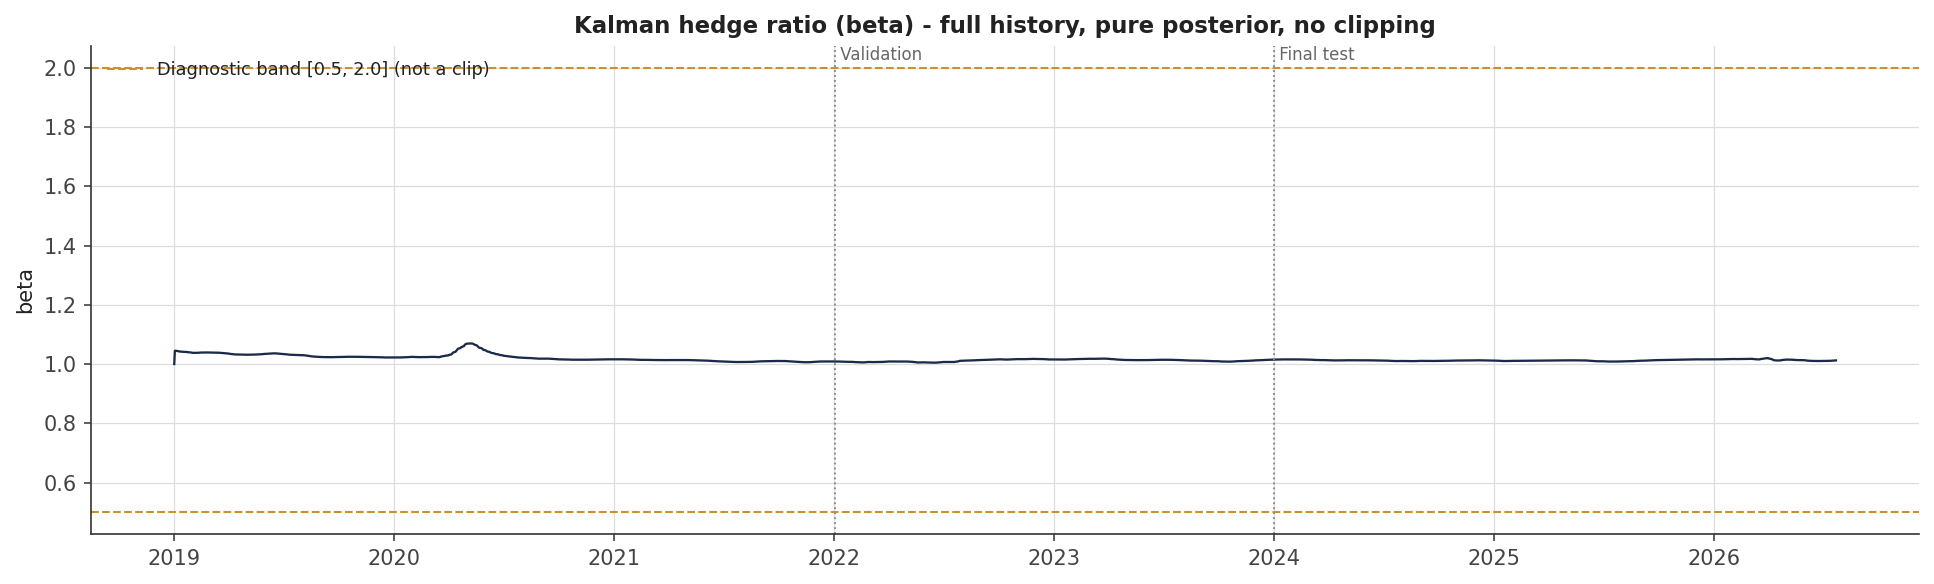
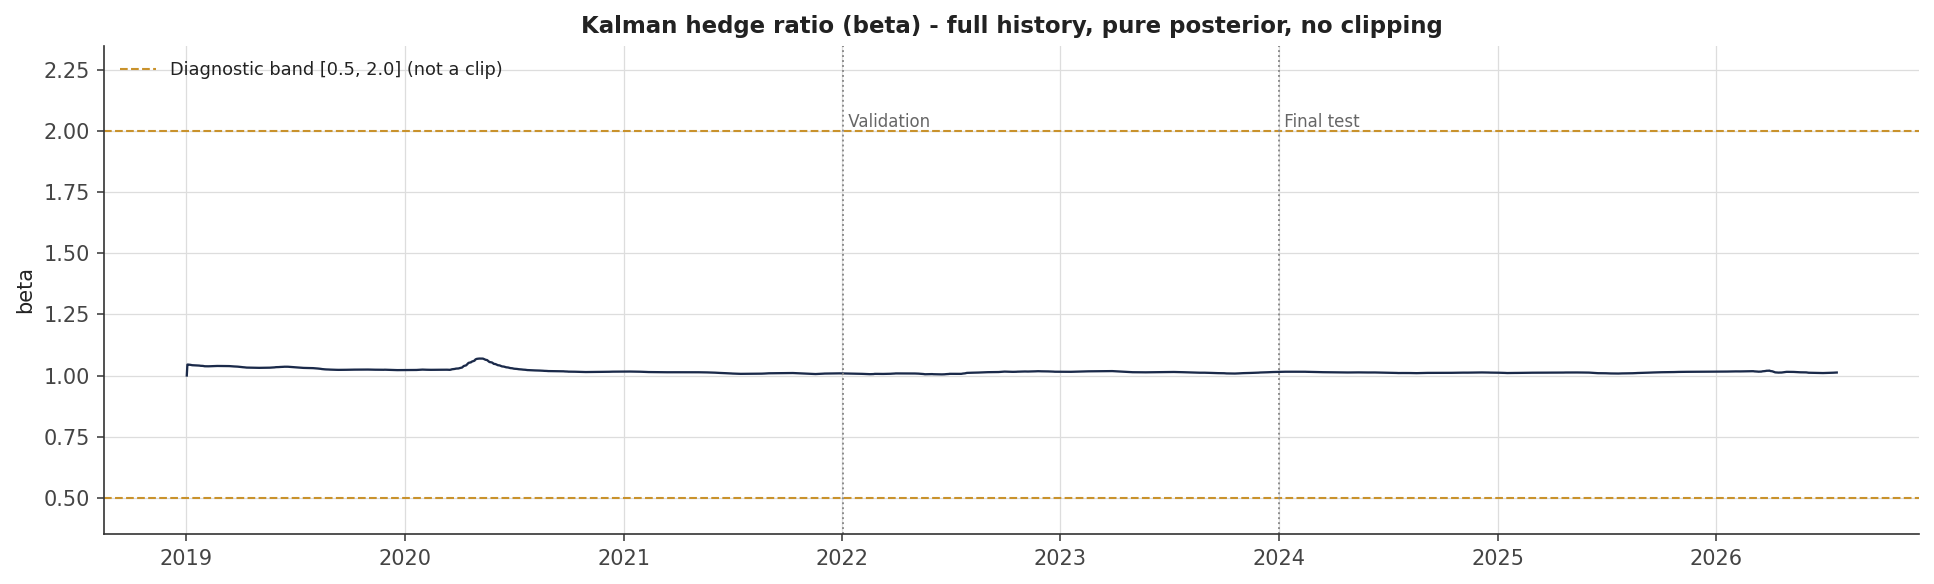
PNG fix

diff --git a/generate_report_charts.py b/generate_report_charts.py
@@ -23,6 +23,7 @@ Charts produced:
 """
 from pathlib import Path
 
+import matplotlib.dates as mdates
 import matplotlib.pyplot as plt
 import pandas as pd
 
@@ -109,25 +110,30 @@ def plot_equity_and_drawdown(df: pd.DataFrame, results_summary: pd.DataFrame | N
         ax_eq.axhline(1.0, color="#aaaaaa", lw=0.8, ls="--")
         ax_eq.set_title(f"{label}\n{start:%Y-%m-%d} \u2192 {end:%Y-%m-%d}")
         ax_eq.set_ylim(eq_lo - eq_pad, eq_hi + eq_pad)
+        ax_eq.tick_params(axis="x", labelbottom=False)
         if col == 0:
             ax_eq.set_ylabel("Equity (start = 1.0)")
 
         if results_summary is not None and period in results_summary.index:
             row = results_summary.loc[period]
             ax_eq.text(
-                0.03, 0.06,
+                0.97, 0.06,
                 f"Sharpe {row['sharpe']:.2f}  |  Return {row['return'] * 100:.1f}%",
                 transform=ax_eq.transAxes, fontsize=8.5, color="#333333",
-                va="bottom", ha="left",
+                va="bottom", ha="right",
             )
 
         ax_dd = axes[1, col]
+        ax_dd.sharex(ax_eq)
         ax_dd.fill_between(sub["Date"], dd * 100, 0, color=MAROON, alpha=0.35, lw=0)
         ax_dd.plot(sub["Date"], dd * 100, color=MAROON, lw=1.0)
         ax_dd.set_ylim((dd_lo - dd_pad) * 100, 1.0)
         if col == 0:
             ax_dd.set_ylabel("Drawdown (%)")
-        ax_dd.tick_params(axis="x", labelrotation=30)
+        locator = mdates.MonthLocator(interval=6)
+        ax_dd.xaxis.set_major_locator(locator)
+        ax_dd.xaxis.set_major_formatter(mdates.ConciseDateFormatter(locator))
+        ax_dd.tick_params(axis="x", labelrotation=0)
 
     fig.suptitle(
         "Out-of-sample performance by period (each period is an independent test - "
@@ -155,6 +161,7 @@ def plot_beta_over_time(df: pd.DataFrame, config: StrategyConfig) -> None:
 
     ax.set_title("Kalman hedge ratio (beta) - full history, pure posterior, no clipping")
     ax.set_ylabel("beta")
+    ax.set_ylim(config.beta_warn_min - 0.15, config.beta_warn_max + 0.35)
     ax.legend(loc="upper left", fontsize=8.5, frameon=False)
     fig.tight_layout()
     fig.savefig(CHARTS_DIR / "beta_over_time.png", dpi=150, bbox_inches="tight")
